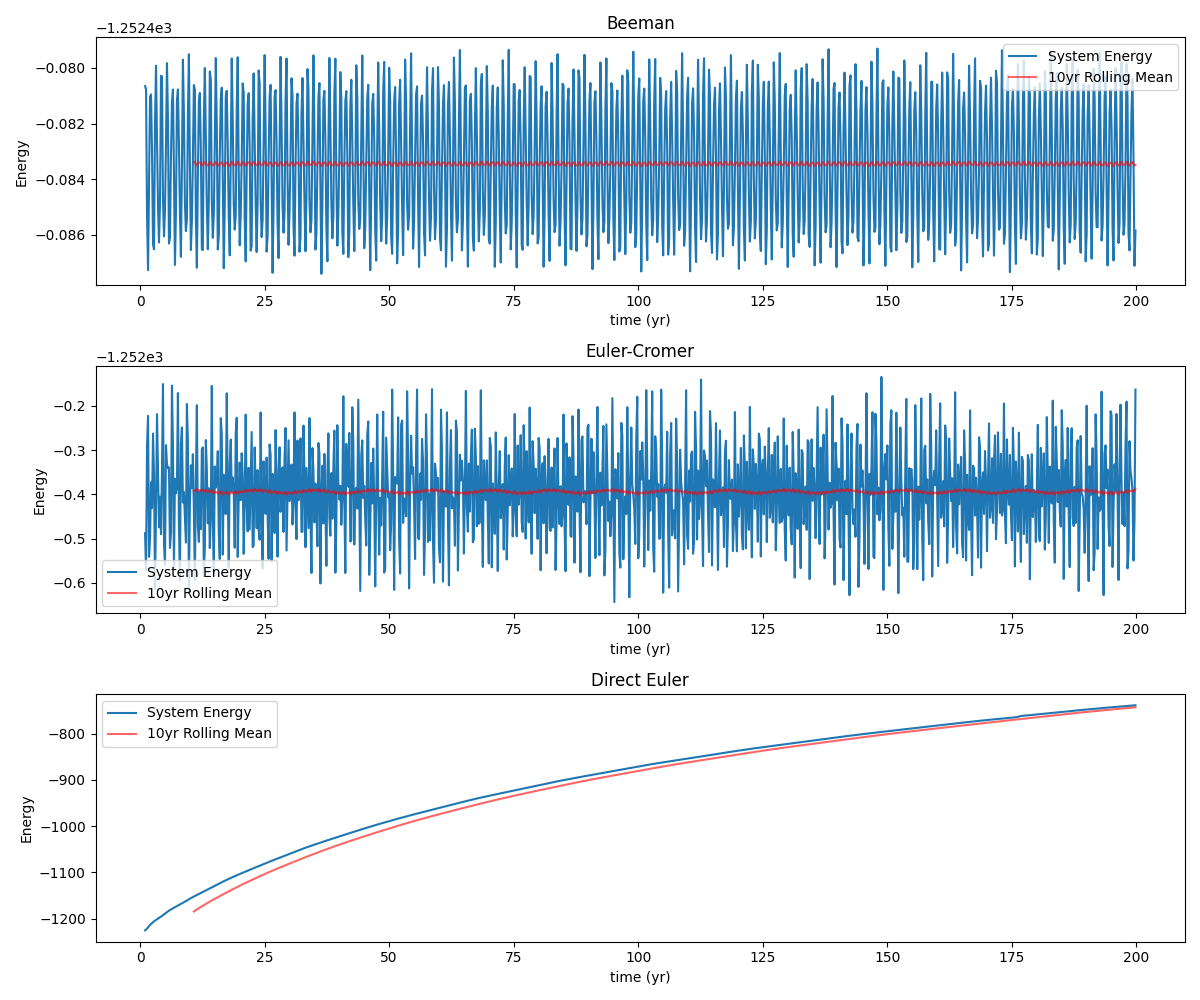
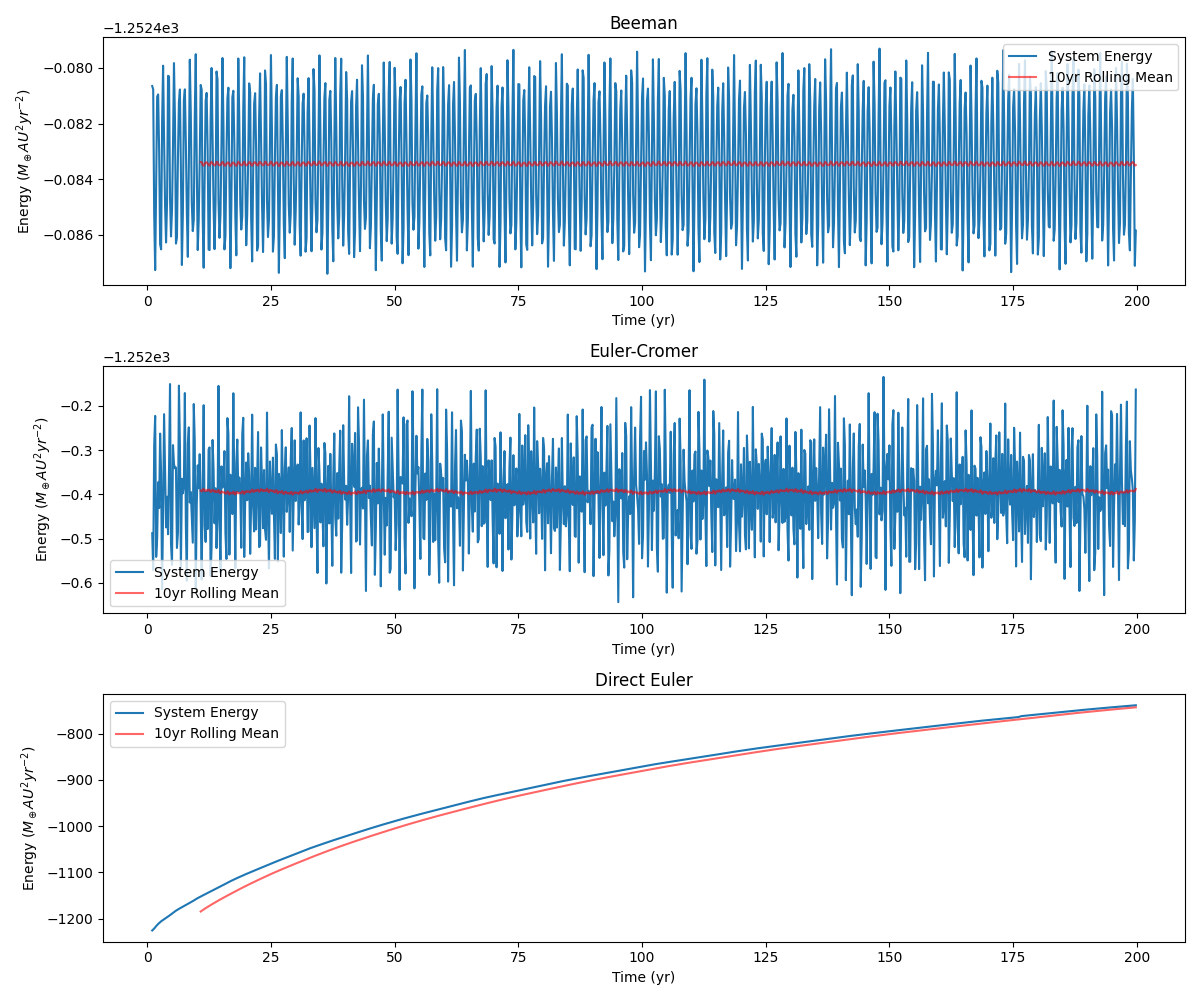
relabelled plots

diff --git a/test/experiment2.py b/test/experiment2.py
@@ -71,17 +71,17 @@ def rolling_mean_plot(data):
 
     ax[0].plot(plot_data["Beeman"], label='System Energy')
     ax[0].plot(plot_data["Beeman"].rolling(window=50).mean(), 'r-', alpha=0.6, label='10yr Rolling Mean')
-    ax[0].set(title='Beeman', xlabel='time (yr)', ylabel='Energy')
+    ax[0].set(title='Beeman', xlabel='Time (yr)', ylabel=r'Energy ($M_\oplus AU^2 yr^{-2}$)')
     ax[0].legend()
 
     ax[1].plot(plot_data["Euler-Cromer"], label='System Energy')
     ax[1].plot(plot_data["Euler-Cromer"].rolling(window=50).mean(), 'r-', alpha=0.6, label='10yr Rolling Mean')
-    ax[1].set(title='Euler-Cromer', xlabel='time (yr)', ylabel='Energy')
+    ax[1].set(title='Euler-Cromer', xlabel='Time (yr)', ylabel=r'Energy ($M_\oplus AU^2 yr^{-2}$)')
     ax[1].legend()
 
     ax[2].plot(plot_data["Direct Euler"], label='System Energy')
     ax[2].plot(plot_data["Direct Euler"].rolling(window=50).mean(), 'r-', alpha=0.6, label='10yr Rolling Mean')
-    ax[2].set(title='Direct Euler', xlabel='time (yr)', ylabel='Energy')
+    ax[2].set(title='Direct Euler', xlabel='Time (yr)', ylabel=r'Energy ($M_\oplus AU^2 yr^{-2}$)')
     ax[2].legend()
 
     plt.tight_layout()
@@ -109,7 +109,7 @@ def normalised_plot(data):
 
     ax[1].plot(plot_data['Beeman Norm'], label='Beeman', alpha=0.6)
     ax[1].plot(plot_data['Euler-Cromer Norm'], label='Euler-Cromer', alpha=0.6)
-    ax[1].set(xlabel='time (yr)', ylabel='Normalised Energy')
+    ax[1].set(xlabel='Time (yr)', ylabel='Normalised Energy')
     ax[1].legend()
 
     plt.tight_layout()
